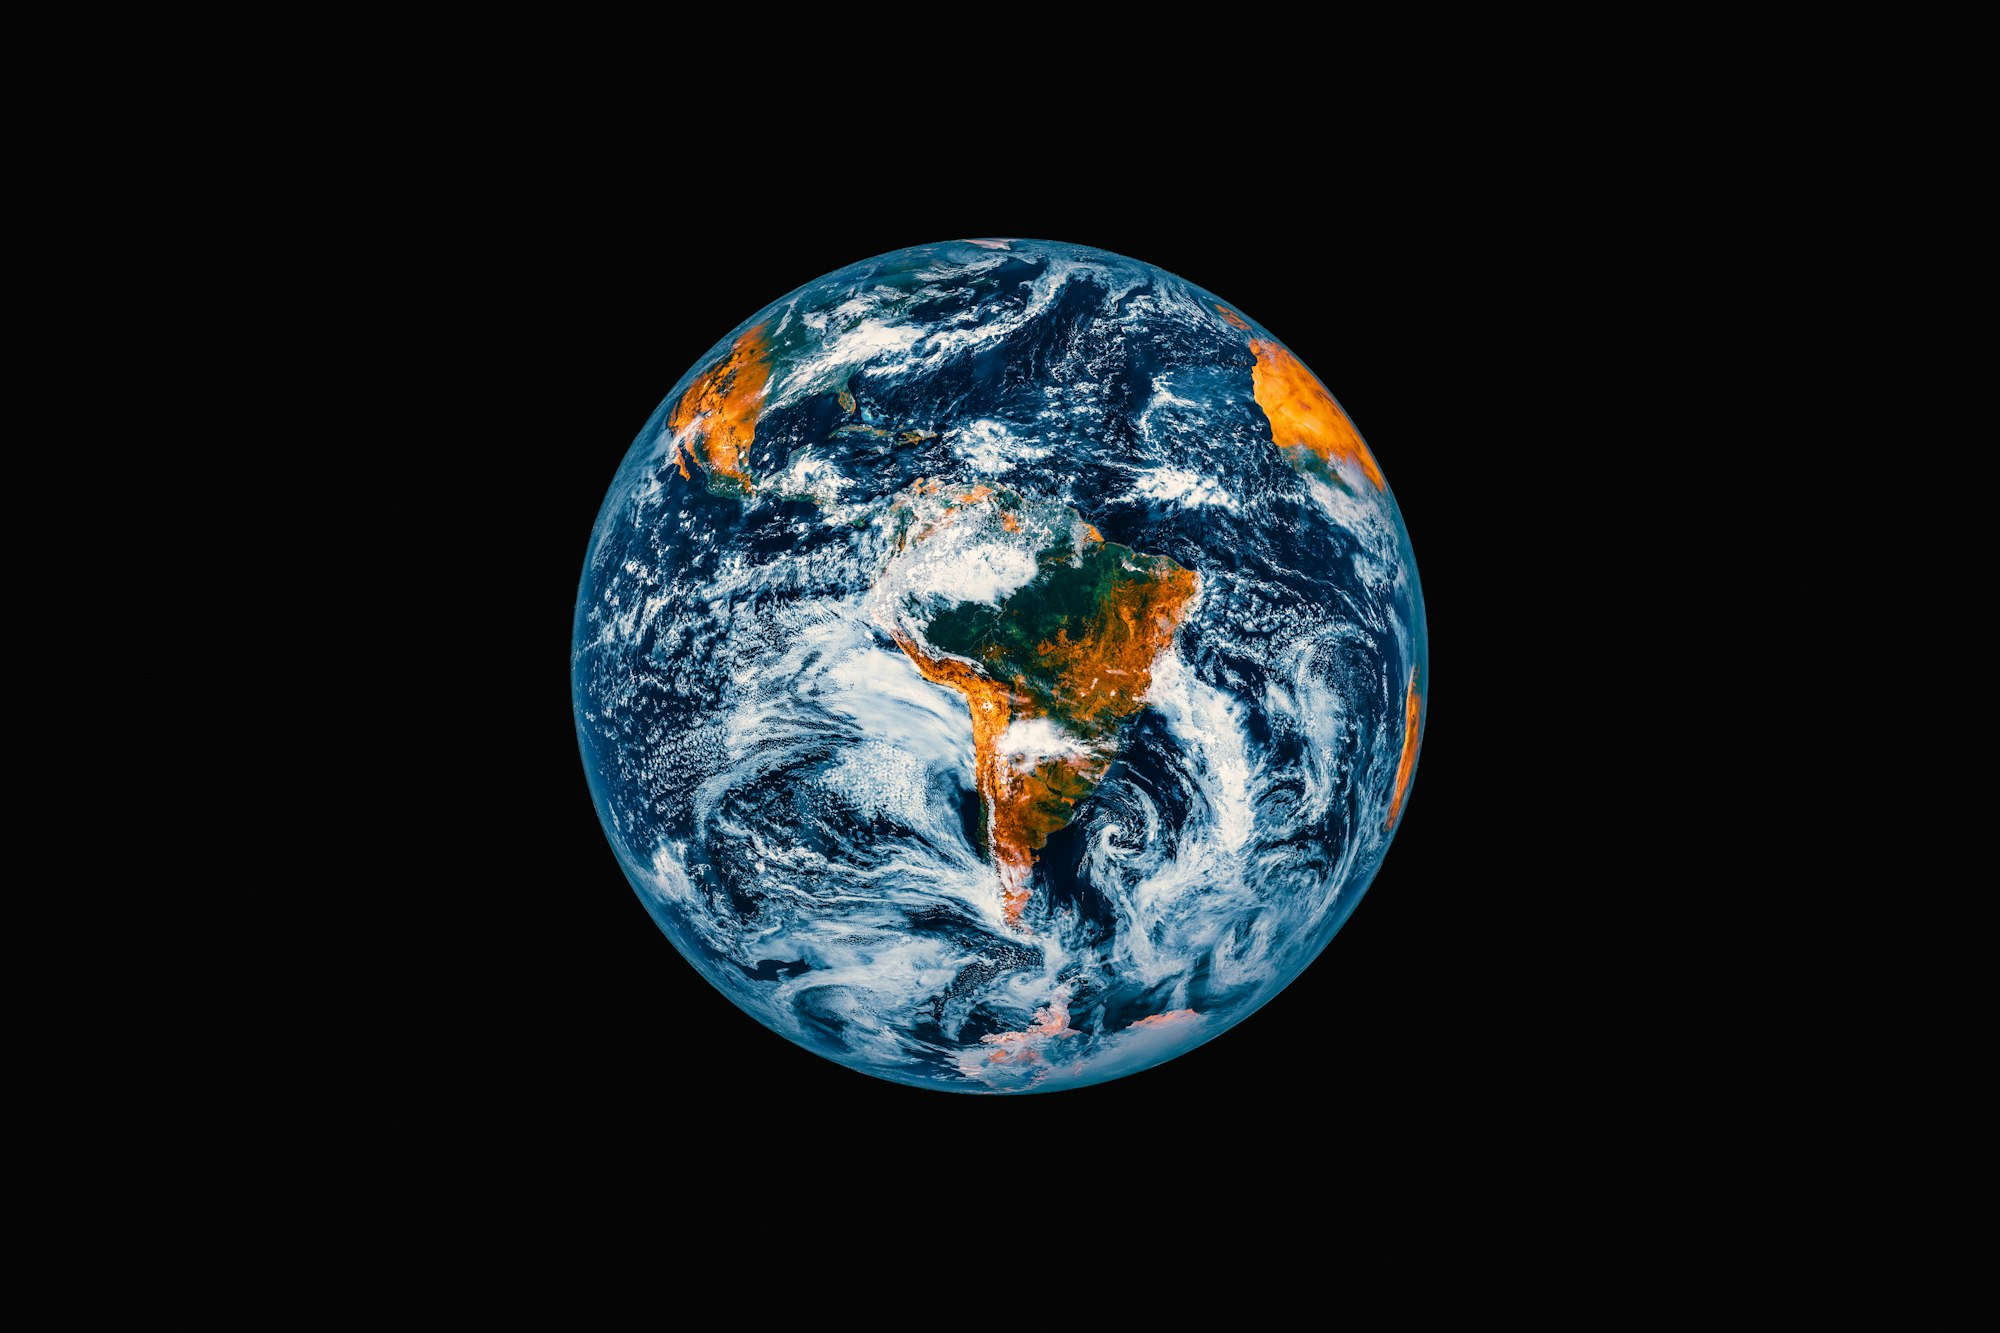
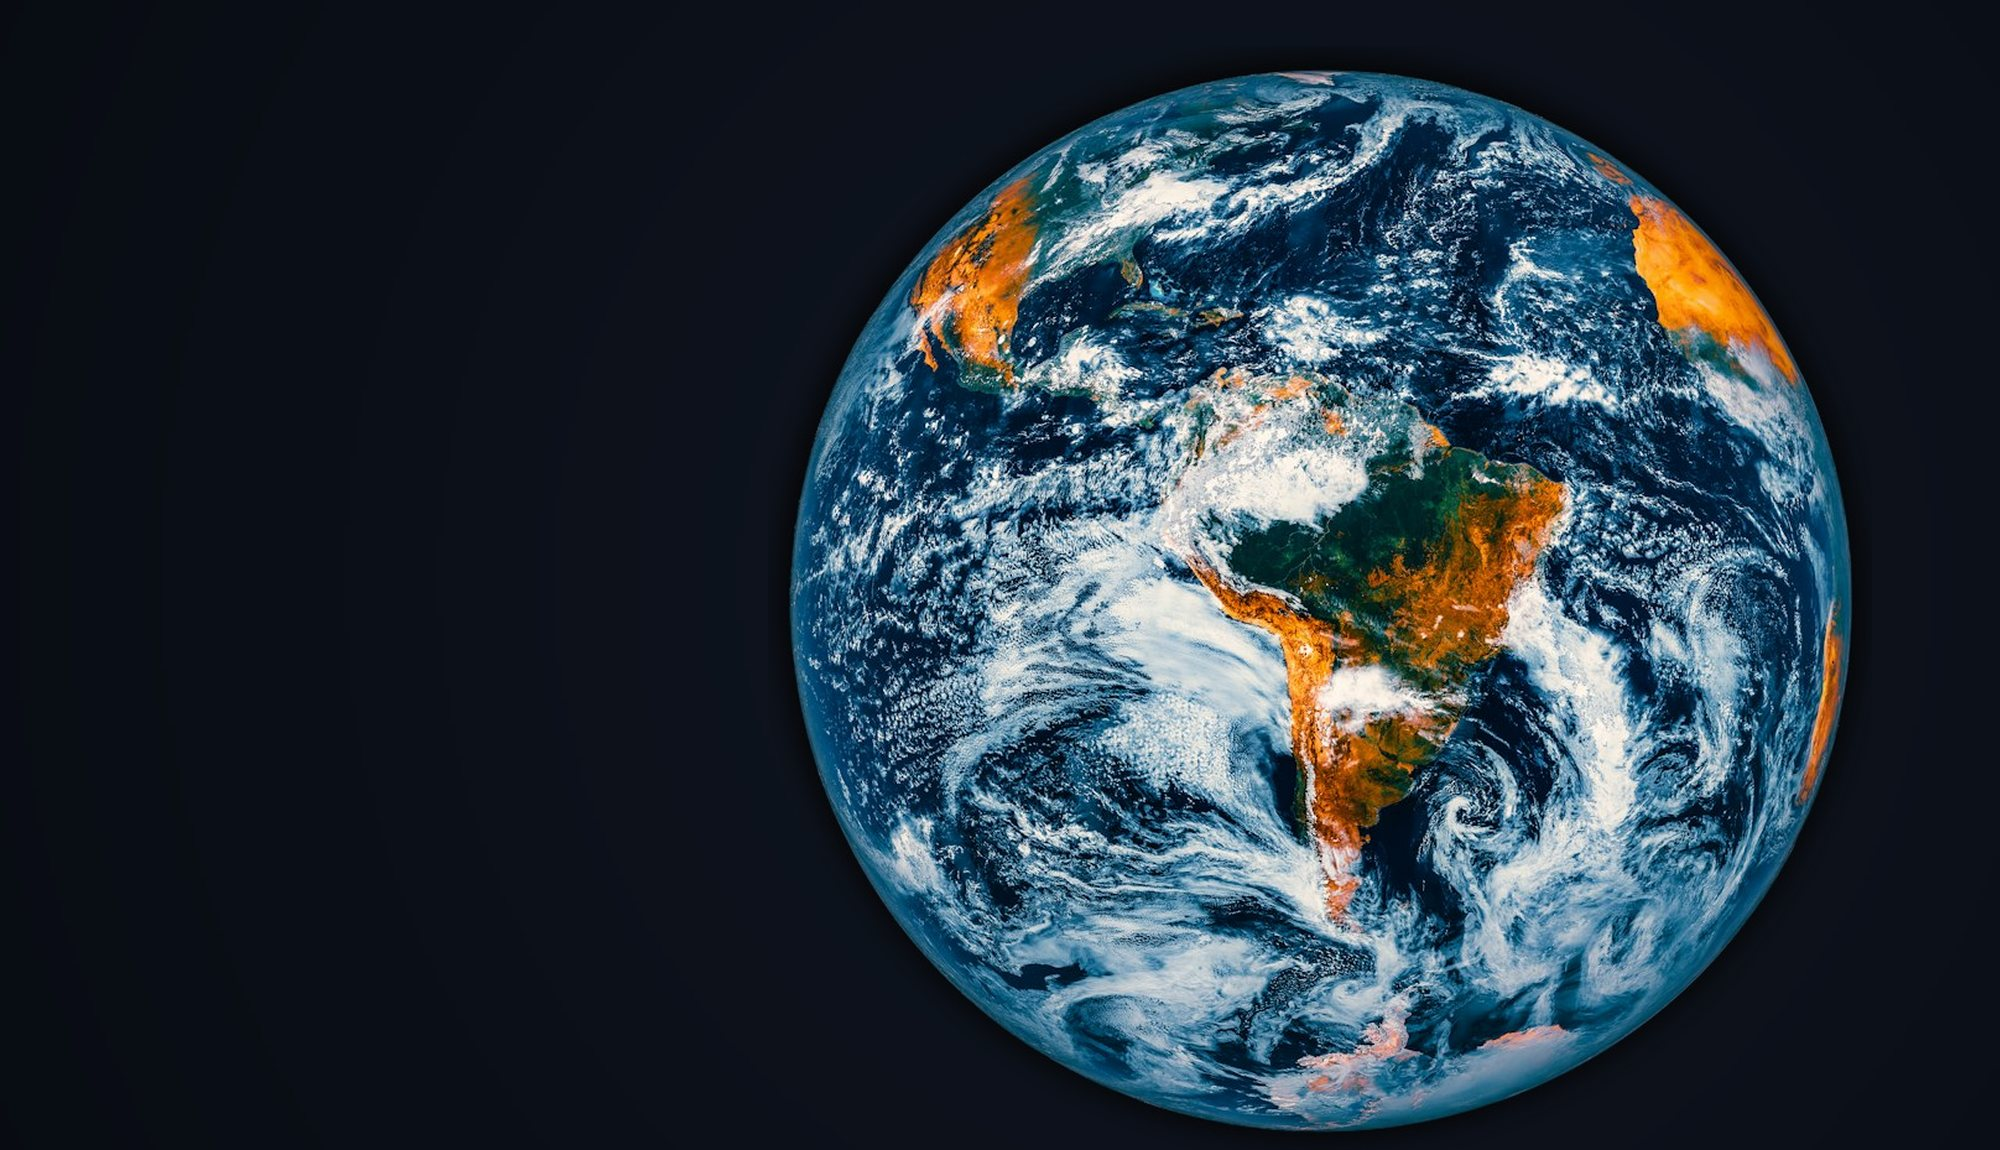
chore: switch hero to planet-right background, normalize LinkedIn URL
- Hero uses the calmer "planet on the right" composition (hero-geo.jpg);
  full-planet kept as hero-geo-full.jpg alternate
- Normalize all LinkedIn links to https://www.linkedin.com/in/avnergomes
  (JSON-LD, contact, footer, article, llms.txt/llms-full.txt, all project pages)

diff --git a/index.html b/index.html
@@ -87,7 +87,7 @@
         "Drone Piloting"
       ],
       "sameAs": [
-        "https://www.linkedin.com/in/avnergomes/",
+        "https://www.linkedin.com/in/avnergomes",
         "https://github.com/avnergomes",
         "https://www.upwork.com/freelancers/avnergomes"
       ]
@@ -1850,7 +1850,7 @@
                         </div>
                         <div class="contact-text">
                             <h3>LinkedIn</h3>
-                            <a href="https://www.linkedin.com/in/avner-gomes-32556018/" target="_blank" rel="noopener">
+                            <a href="https://www.linkedin.com/in/avnergomes" target="_blank" rel="noopener">
                                 Avner Gomes
                             </a>
                         </div>
@@ -1924,7 +1924,7 @@
                 </div>
 
                 <div class="footer-social">
-                    <a href="https://www.linkedin.com/in/avner-gomes-32556018/" target="_blank" rel="noopener" aria-label="LinkedIn">
+                    <a href="https://www.linkedin.com/in/avnergomes" target="_blank" rel="noopener" aria-label="LinkedIn">
                         <i class="fab fa-linkedin"></i>
                     </a>
                     <a href="https://github.com/avnergomes" target="_blank" rel="noopener" aria-label="GitHub">

diff --git a/articles/clt-em-movimento.html b/articles/clt-em-movimento.html
@@ -162,7 +162,7 @@
                 </div>
                 <div class="footer-social">
                     <a href="https://github.com/avnergomes" target="_blank" rel="noopener" aria-label="GitHub"><i class="fab fa-github"></i></a>
-                    <a href="https://www.linkedin.com/in/avner-gomes-32556018/" target="_blank" rel="noopener" aria-label="LinkedIn"><i class="fab fa-linkedin"></i></a>
+                    <a href="https://www.linkedin.com/in/avnergomes" target="_blank" rel="noopener" aria-label="LinkedIn"><i class="fab fa-linkedin"></i></a>
                     <a href="mailto:[email redacted]" aria-label="Email"><i class="fas fa-envelope"></i></a>
                 </div>
             </div>

diff --git a/projects/ads-analytics.html b/projects/ads-analytics.html
@@ -201,7 +201,7 @@
                 </div>
                 <div class="footer-social">
                     <a href="https://github.com/avnergomes" target="_blank" rel="noopener" aria-label="GitHub"><i class="fab fa-github"></i></a>
-                    <a href="https://linkedin.com/in/avnergomes" target="_blank" rel="noopener" aria-label="LinkedIn"><i class="fab fa-linkedin"></i></a>
+                    <a href="https://www.linkedin.com/in/avnergomes" target="_blank" rel="noopener" aria-label="LinkedIn"><i class="fab fa-linkedin"></i></a>
                     <a href="mailto:[email redacted]" aria-label="Email"><i class="fas fa-envelope"></i></a>
                 </div>
             </div>

diff --git a/projects/bi-international.html b/projects/bi-international.html
@@ -165,7 +165,7 @@
                 </div>
                 <div class="footer-social">
                     <a href="https://github.com/avnergomes" target="_blank" rel="noopener" aria-label="GitHub"><i class="fab fa-github"></i></a>
-                    <a href="https://linkedin.com/in/avnergomes" target="_blank" rel="noopener" aria-label="LinkedIn"><i class="fab fa-linkedin"></i></a>
+                    <a href="https://www.linkedin.com/in/avnergomes" target="_blank" rel="noopener" aria-label="LinkedIn"><i class="fab fa-linkedin"></i></a>
                     <a href="mailto:[email redacted]" aria-label="Email"><i class="fas fa-envelope"></i></a>
                 </div>
             </div>

diff --git a/projects/capital-certainty.html b/projects/capital-certainty.html
@@ -160,7 +160,7 @@
                 </div>
                 <div class="footer-social">
                     <a href="https://github.com/avnergomes" target="_blank" rel="noopener" aria-label="GitHub"><i class="fab fa-github"></i></a>
-                    <a href="https://linkedin.com/in/avnergomes" target="_blank" rel="noopener" aria-label="LinkedIn"><i class="fab fa-linkedin"></i></a>
+                    <a href="https://www.linkedin.com/in/avnergomes" target="_blank" rel="noopener" aria-label="LinkedIn"><i class="fab fa-linkedin"></i></a>
                     <a href="mailto:[email redacted]" aria-label="Email"><i class="fas fa-envelope"></i></a>
                 </div>
             </div>

diff --git a/projects/carbon-credit.html b/projects/carbon-credit.html
@@ -165,7 +165,7 @@
                 </div>
                 <div class="footer-social">
                     <a href="https://github.com/avnergomes" target="_blank" rel="noopener" aria-label="GitHub"><i class="fab fa-github"></i></a>
-                    <a href="https://linkedin.com/in/avnergomes" target="_blank" rel="noopener" aria-label="LinkedIn"><i class="fab fa-linkedin"></i></a>
+                    <a href="https://www.linkedin.com/in/avnergomes" target="_blank" rel="noopener" aria-label="LinkedIn"><i class="fab fa-linkedin"></i></a>
                     <a href="mailto:[email redacted]" aria-label="Email"><i class="fas fa-envelope"></i></a>
                 </div>
             </div>

diff --git a/projects/cityview.html b/projects/cityview.html
@@ -165,7 +165,7 @@
                 </div>
                 <div class="footer-social">
                     <a href="https://github.com/avnergomes" target="_blank" rel="noopener" aria-label="GitHub"><i class="fab fa-github"></i></a>
-                    <a href="https://linkedin.com/in/avnergomes" target="_blank" rel="noopener" aria-label="LinkedIn"><i class="fab fa-linkedin"></i></a>
+                    <a href="https://www.linkedin.com/in/avnergomes" target="_blank" rel="noopener" aria-label="LinkedIn"><i class="fab fa-linkedin"></i></a>
                     <a href="mailto:[email redacted]" aria-label="Email"><i class="fas fa-envelope"></i></a>
                 </div>
             </div>

diff --git a/projects/deep-grain.html b/projects/deep-grain.html
@@ -164,7 +164,7 @@
                 </div>
                 <div class="footer-social">
                     <a href="https://github.com/avnergomes" target="_blank" rel="noopener" aria-label="GitHub"><i class="fab fa-github"></i></a>
-                    <a href="https://linkedin.com/in/avnergomes" target="_blank" rel="noopener" aria-label="LinkedIn"><i class="fab fa-linkedin"></i></a>
+                    <a href="https://www.linkedin.com/in/avnergomes" target="_blank" rel="noopener" aria-label="LinkedIn"><i class="fab fa-linkedin"></i></a>
                     <a href="mailto:[email redacted]" aria-label="Email"><i class="fas fa-envelope"></i></a>
                 </div>
             </div>

diff --git a/projects/flai-data.html b/projects/flai-data.html
@@ -166,7 +166,7 @@
                 </div>
                 <div class="footer-social">
                     <a href="https://github.com/avnergomes" target="_blank" rel="noopener" aria-label="GitHub"><i class="fab fa-github"></i></a>
-                    <a href="https://linkedin.com/in/avnergomes" target="_blank" rel="noopener" aria-label="LinkedIn"><i class="fab fa-linkedin"></i></a>
+                    <a href="https://www.linkedin.com/in/avnergomes" target="_blank" rel="noopener" aria-label="LinkedIn"><i class="fab fa-linkedin"></i></a>
                     <a href="mailto:[email redacted]" aria-label="Email"><i class="fas fa-envelope"></i></a>
                 </div>
             </div>

diff --git a/projects/forest-development.html b/projects/forest-development.html
@@ -165,7 +165,7 @@
                 </div>
                 <div class="footer-social">
                     <a href="https://github.com/avnergomes" target="_blank" rel="noopener" aria-label="GitHub"><i class="fab fa-github"></i></a>
-                    <a href="https://linkedin.com/in/avnergomes" target="_blank" rel="noopener" aria-label="LinkedIn"><i class="fab fa-linkedin"></i></a>
+                    <a href="https://www.linkedin.com/in/avnergomes" target="_blank" rel="noopener" aria-label="LinkedIn"><i class="fab fa-linkedin"></i></a>
                     <a href="mailto:[email redacted]" aria-label="Email"><i class="fas fa-envelope"></i></a>
                 </div>
             </div>

diff --git a/projects/iof-technology.html b/projects/iof-technology.html
@@ -353,7 +353,7 @@
                 </div>
                 <div class="footer-social">
                     <a href="https://github.com/avnergomes" target="_blank" rel="noopener" aria-label="GitHub"><i class="fab fa-github"></i></a>
-                    <a href="https://linkedin.com/in/avnergomes" target="_blank" rel="noopener" aria-label="LinkedIn"><i class="fab fa-linkedin"></i></a>
+                    <a href="https://www.linkedin.com/in/avnergomes" target="_blank" rel="noopener" aria-label="LinkedIn"><i class="fab fa-linkedin"></i></a>
                     <a href="mailto:[email redacted]" aria-label="Email"><i class="fas fa-envelope"></i></a>
                 </div>
             </div>

diff --git a/projects/land-development.html b/projects/land-development.html
@@ -165,7 +165,7 @@
                 </div>
                 <div class="footer-social">
                     <a href="https://github.com/avnergomes" target="_blank" rel="noopener" aria-label="GitHub"><i class="fab fa-github"></i></a>
-                    <a href="https://linkedin.com/in/avnergomes" target="_blank" rel="noopener" aria-label="LinkedIn"><i class="fab fa-linkedin"></i></a>
+                    <a href="https://www.linkedin.com/in/avnergomes" target="_blank" rel="noopener" aria-label="LinkedIn"><i class="fab fa-linkedin"></i></a>
                     <a href="mailto:[email redacted]" aria-label="Email"><i class="fas fa-envelope"></i></a>
                 </div>
             </div>